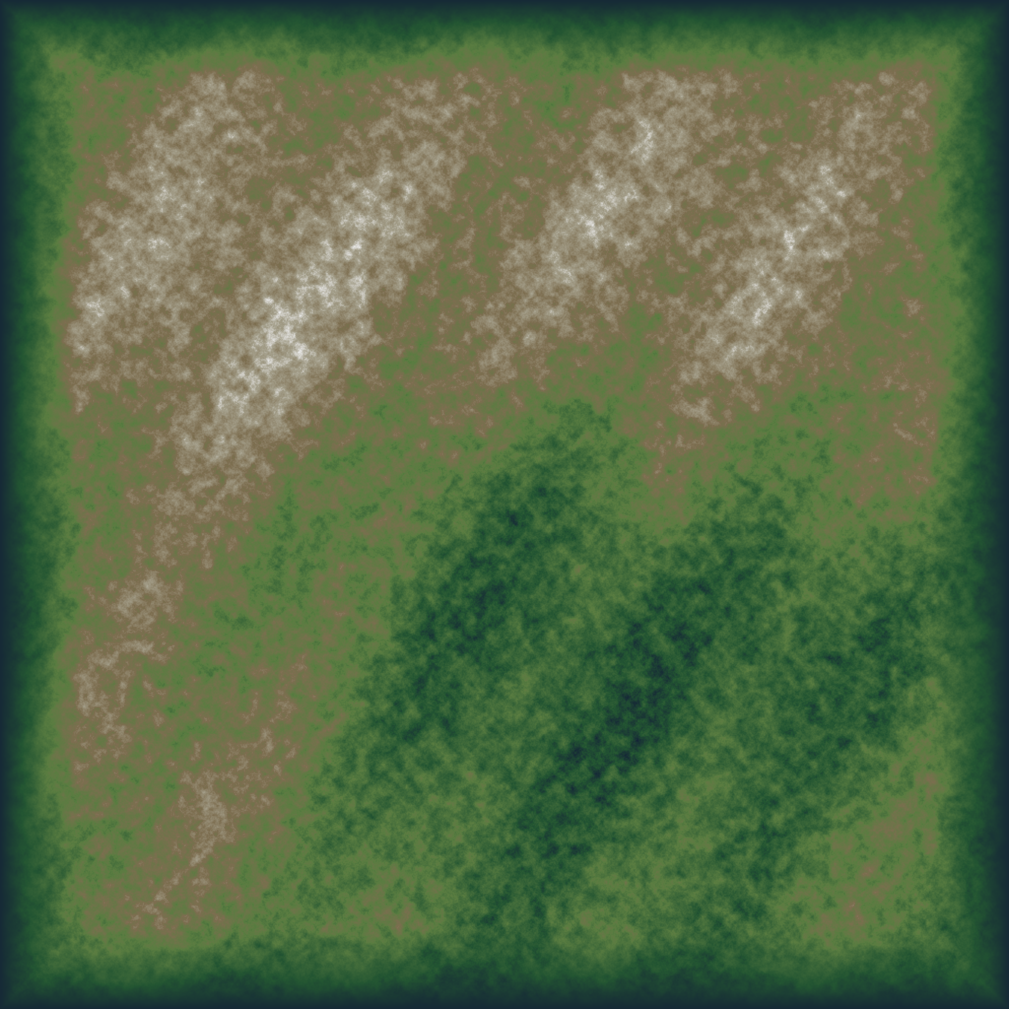
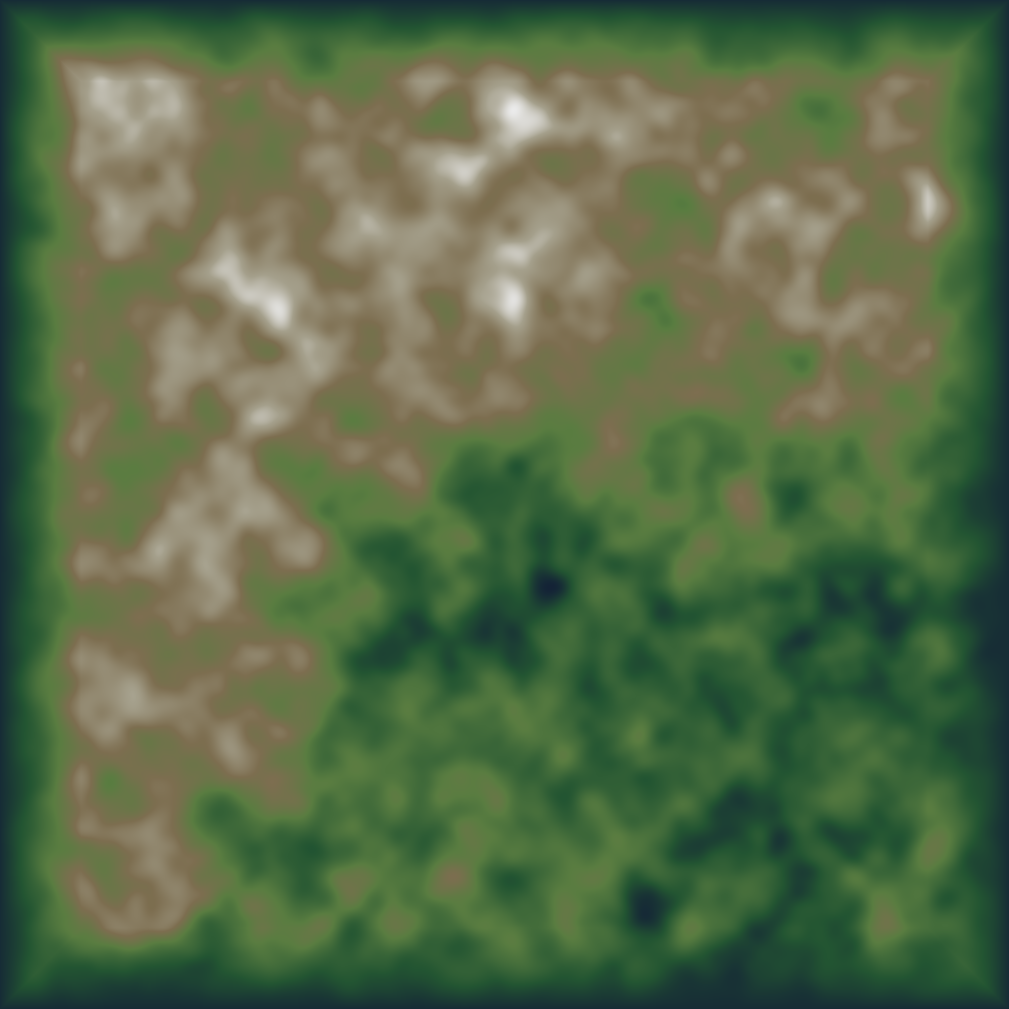
fix(terrain): smooth procedural map generation to remove spikes

diff --git a/Tools/HeightmapProcessing/generate_heightmap.py b/Tools/HeightmapProcessing/generate_heightmap.py
@@ -22,12 +22,33 @@ def _smooth_noise(size: int, rng: np.random.Generator, scale: int) -> np.ndarray
     return np.array(up, dtype=np.float64) / 65535.0
 
 
+def _box_blur(arr: np.ndarray, radius: int, passes: int = 1) -> np.ndarray:
+    if radius <= 0 or passes <= 0:
+        return arr
+
+    out = arr
+    for _ in range(passes):
+        # Horizontal pass
+        padded = np.pad(out, ((0, 0), (radius, radius)), mode="edge")
+        csum = np.cumsum(padded, axis=1)
+        csum = np.pad(csum, ((0, 0), (1, 0)), mode="constant", constant_values=0.0)
+        out = (csum[:, 2 * radius + 1 :] - csum[:, : -(2 * radius + 1)]) / float(2 * radius + 1)
+
+        # Vertical pass
+        padded = np.pad(out, ((radius, radius), (0, 0)), mode="edge")
+        csum = np.cumsum(padded, axis=0)
+        csum = np.pad(csum, ((1, 0), (0, 0)), mode="constant", constant_values=0.0)
+        out = (csum[2 * radius + 1 :, :] - csum[: -(2 * radius + 1), :]) / float(2 * radius + 1)
+
+    return out
+
+
 def _fbm(size: int, rng: np.random.Generator) -> np.ndarray:
     layers = [
-        (24, 1.00),
-        (12, 0.70),
-        (6, 0.45),
-        (3, 0.20),
+        (48, 1.00),
+        (24, 0.65),
+        (12, 0.30),
+        (8, 0.18),
     ]
     acc = np.zeros((size, size), dtype=np.float64)
     total_w = 0.0
@@ -54,27 +75,31 @@ def build_terrain(size: int, seed: int) -> np.ndarray:
     # Add broad mountain/valley structures.
     macro = np.zeros_like(terrain)
     features = [
-        (0.25, 0.30, 0.16, +1.00),
-        (0.70, 0.25, 0.18, +0.85),
-        (0.55, 0.70, 0.22, -0.95),
-        (0.20, 0.75, 0.12, +0.60),
-        (0.82, 0.62, 0.10, -0.55),
+        (0.24, 0.28, 0.22, +0.70),
+        (0.72, 0.25, 0.24, +0.55),
+        (0.52, 0.70, 0.28, -0.60),
+        (0.20, 0.76, 0.18, +0.35),
+        (0.84, 0.60, 0.16, -0.30),
     ]
     for cx, cy, sigma, amp in features:
         macro += _gaussian_hill(xx, yy, cx, cy, sigma, amp)
 
-    # Add a directional ridge to create speed lines for rolling gameplay.
-    ridge = np.sin((xx * 9.0 + yy * 5.5) * np.pi) * 0.10
+    # Add smooth directional undulation to create rolling lanes.
+    ridge = np.sin((xx * 4.0 + yy * 2.7) * np.pi) * 0.045
 
-    # Add fine bumps for micro-variation.
-    bumps = (_smooth_noise(size, rng, 2) - 0.5) * 0.10
+    # Add mild micro-variation only.
+    bumps = (_smooth_noise(size, rng, 16) - 0.5) * 0.02
 
-    terrain = 0.55 * terrain + 0.35 * macro + ridge + bumps
+    terrain = 0.58 * terrain + 0.34 * macro + ridge + bumps
 
     # Carve a gentle bowl near center to keep gameplay area readable.
     cx, cy = 0.5, 0.5
     center_dist = np.sqrt((xx - cx) ** 2 + (yy - cy) ** 2)
     terrain -= np.clip(0.20 - center_dist, 0.0, 0.20) * 0.6
+
+    # Global smoothing to remove spikes and make rolling gameplay readable.
+    blur_radius = max(2, size // 150)
+    terrain = _box_blur(terrain, radius=blur_radius, passes=2)
 
     # Normalize and add shoreline-like flattening near outer bounds.
     terrain = (terrain - terrain.min()) / max(1e-8, terrain.max() - terrain.min())
